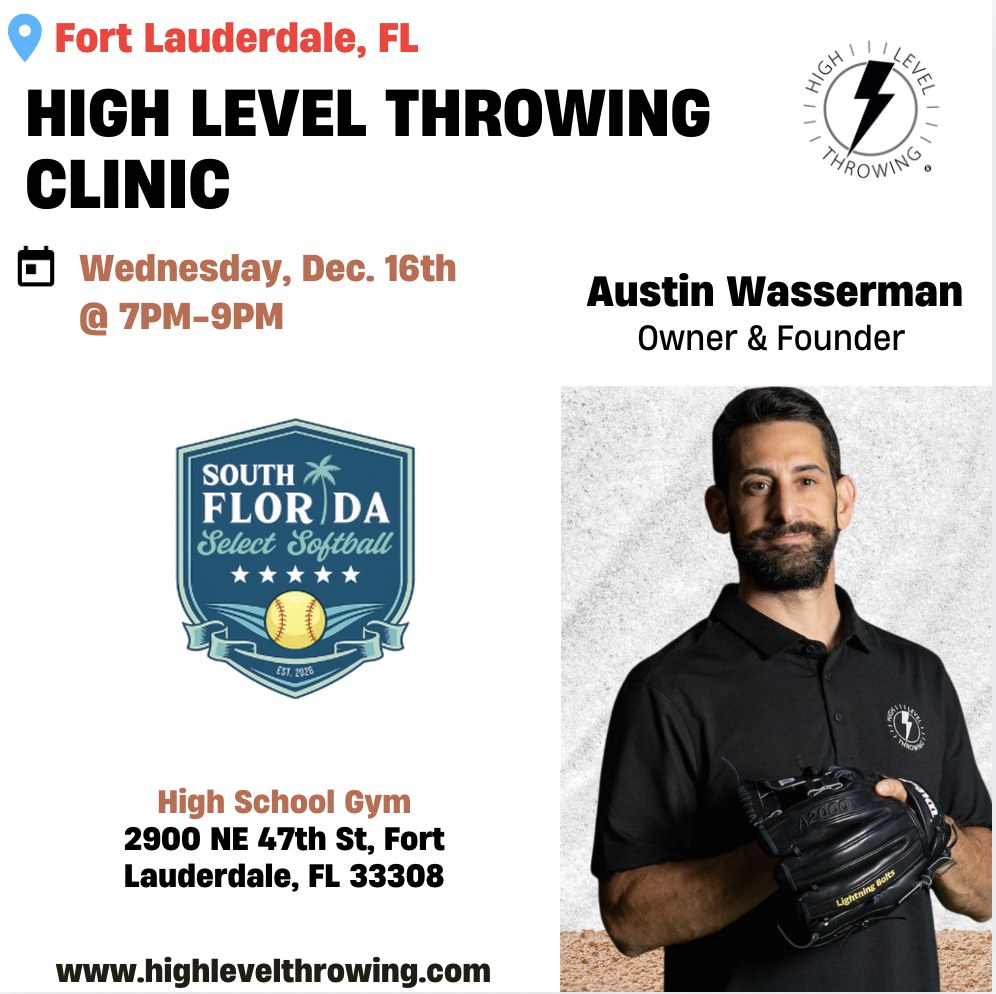
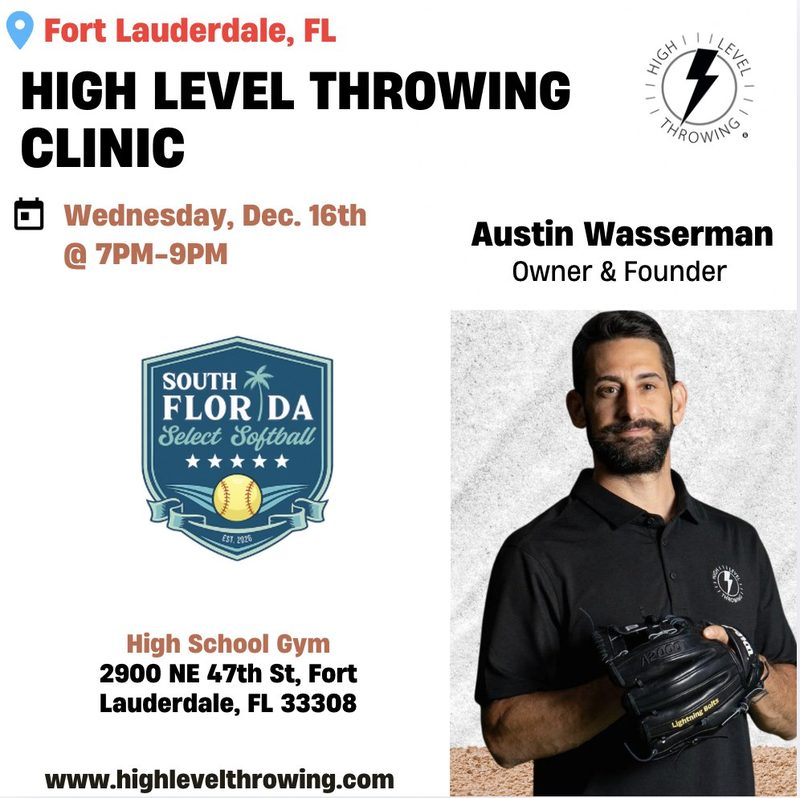
Trim the clinics page, which had become the heaviest on the site
/clinics was 4.5MB, 3.6MB of it images. Two causes:

Tockify hands out its largest render in the feed -- scaled_896 or scaled_1024,
100-210KB each across every card on the schedule. The cards are square and at
most ~380px wide, so scaled_512 is already retina-sharp at roughly half the
bytes. The size is part of the filename and Tockify serves them all, so the
feed URL is rewritten on the way in; an unrecognised filename is left alone.

The two local clinic card images were also full-size: Denver was a 1600px
1600-square at 424KB behind a card that never exceeds 380px.

diff --git a/src/lib/clinics.ts b/src/lib/clinics.ts
@@ -261,7 +261,15 @@ export async function getClinics(): Promise<Clinic[]> {
       if (iso > date) end = iso;
     }
 
-    const image = field(block, "X-TKF-FEATURED-IMAGE")?.value.trim() || null;
+    // Tockify hands out its largest render (scaled_896/scaled_1024, ~100-210KB
+    // each). The cards are square and at most ~380px wide, so scaled_512 is
+    // already retina-sharp and roughly half the bytes. The variant is part of
+    // the filename, and Tockify serves every size, so this is a safe rewrite;
+    // an unrecognised filename is left alone.
+    const rawImage = field(block, "X-TKF-FEATURED-IMAGE")?.value.trim() || null;
+    const image = rawImage
+      ? rawImage.replace(/\/scaled_(?:1024|896|768|640)\.(jpg|jpeg|png|webp)$/i, "/scaled_512.$1")
+      : null;
     const blurb = unescapeText(
       field(block, "X-TKF-CUSTOM-PREVIEW")?.value ?? field(block, "DESCRIPTION")?.value ?? ""
     );
